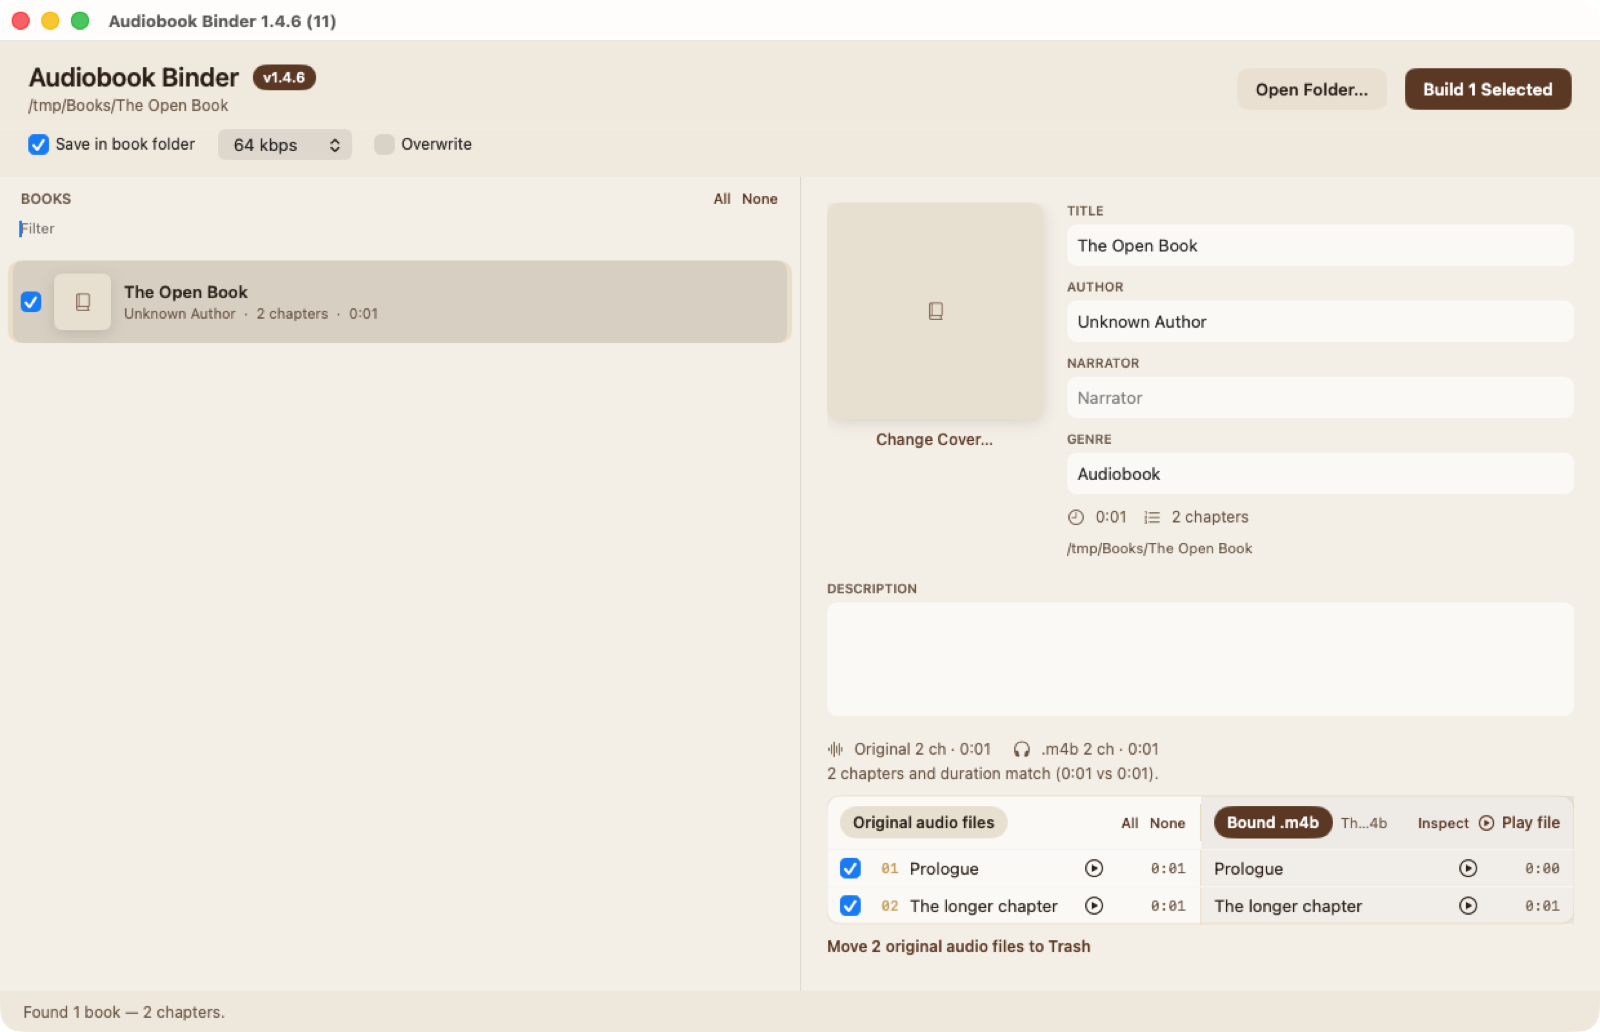
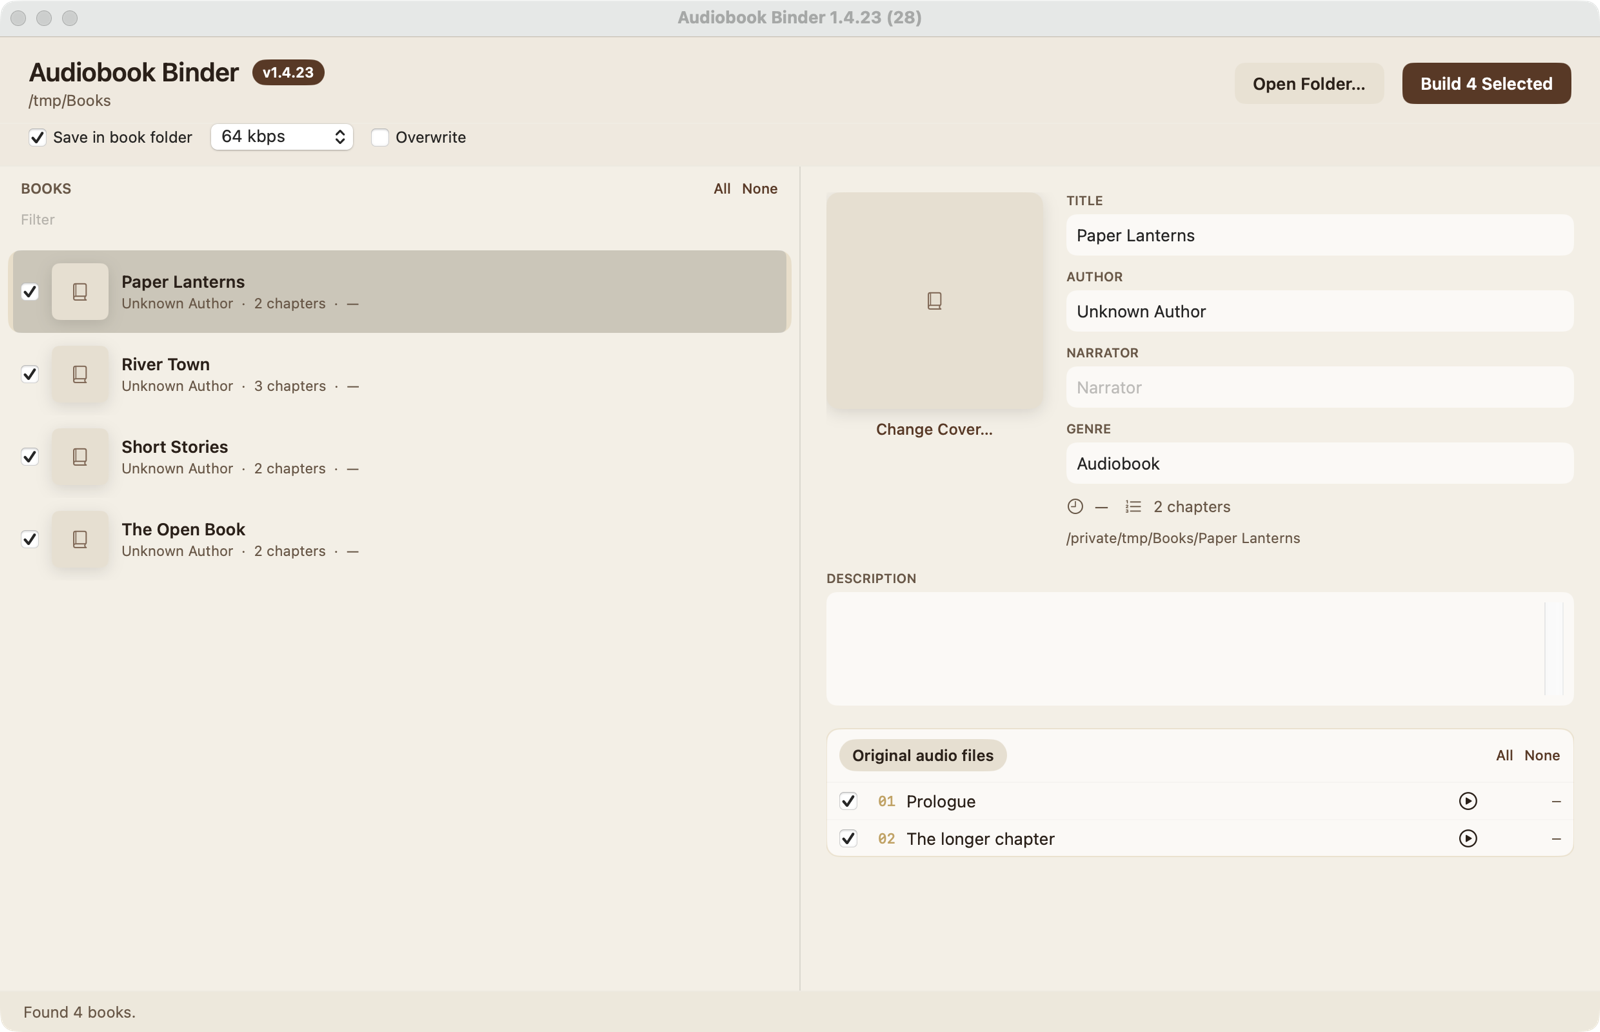
Point the site at a notarized Developer ID build and capture the 1.4.23 window.
The public install copy still described an Apple Development Gatekeeper warning, and iconutil on current Xcode rejects a non-.icns temporary name so packaging cannot finish.

diff --git a/site/index.html b/site/index.html
@@ -343,7 +343,7 @@
       <div>
         <h2 data-i18n="install.title">Install from the disk image</h2>
         <p data-i18n-html="install.p1">Download the DMG, open it, and drag <strong>Audiobook Binder</strong> into Applications.</p>
-        <p data-i18n-html="install.p2">This build is signed with an Apple Development certificate. The first time you open it, macOS may warn that it is from an unidentified developer. Right-click the app, choose <strong>Open</strong>, then Open again.</p>
+        <p data-i18n-html="install.p2">This build is signed with a Developer ID certificate and notarized by Apple. Drag it into Applications, then open it from there.</p>
         <div class="cta">
           <a class="btn" href="https://github.com/aitrail001/m4b/releases/download/v1.4.6/AudiobookBinder-1.4.6.dmg" data-i18n="install.dmg">Download AudiobookBinder-1.4.6.dmg</a>
         </div>
@@ -397,7 +397,7 @@
         "how.4.body": "保存在书文件夹，或保存到「音乐/Audiobooks」。然后用窗口底部的<strong>在访达中显示</strong>、<strong>在图书中打开</strong>或<strong>校验</strong>。若章节数和时长都一致，可以把原来的音频移到废纸篓。",
         "install.title": "从磁盘映像安装",
         "install.p1": "下载 DMG，打开后把 <strong>Audiobook Binder</strong> 拖进「应用程序」。",
-        "install.p2": "当前版本用 Apple Development 证书签名。第一次打开时，macOS 可能提示来自身份不明的开发者。请按住 Control 点按应用，选择<strong>打开</strong>，再确认打开。",
+        "install.p2": "当前版本已用 Developer ID 签名，并由 Apple 公证。把它拖进「应用程序」后，从那里打开即可。",
         "install.dmg": "下载 AudiobookBinder-{v}.dmg",
         "install.fine": "也可在 <a href=\"https://github.com/aitrail001/m4b/releases/latest\">GitHub Releases</a> 下载。源码公开。",
         "expect.title": "它需要什么样的文件夹",
